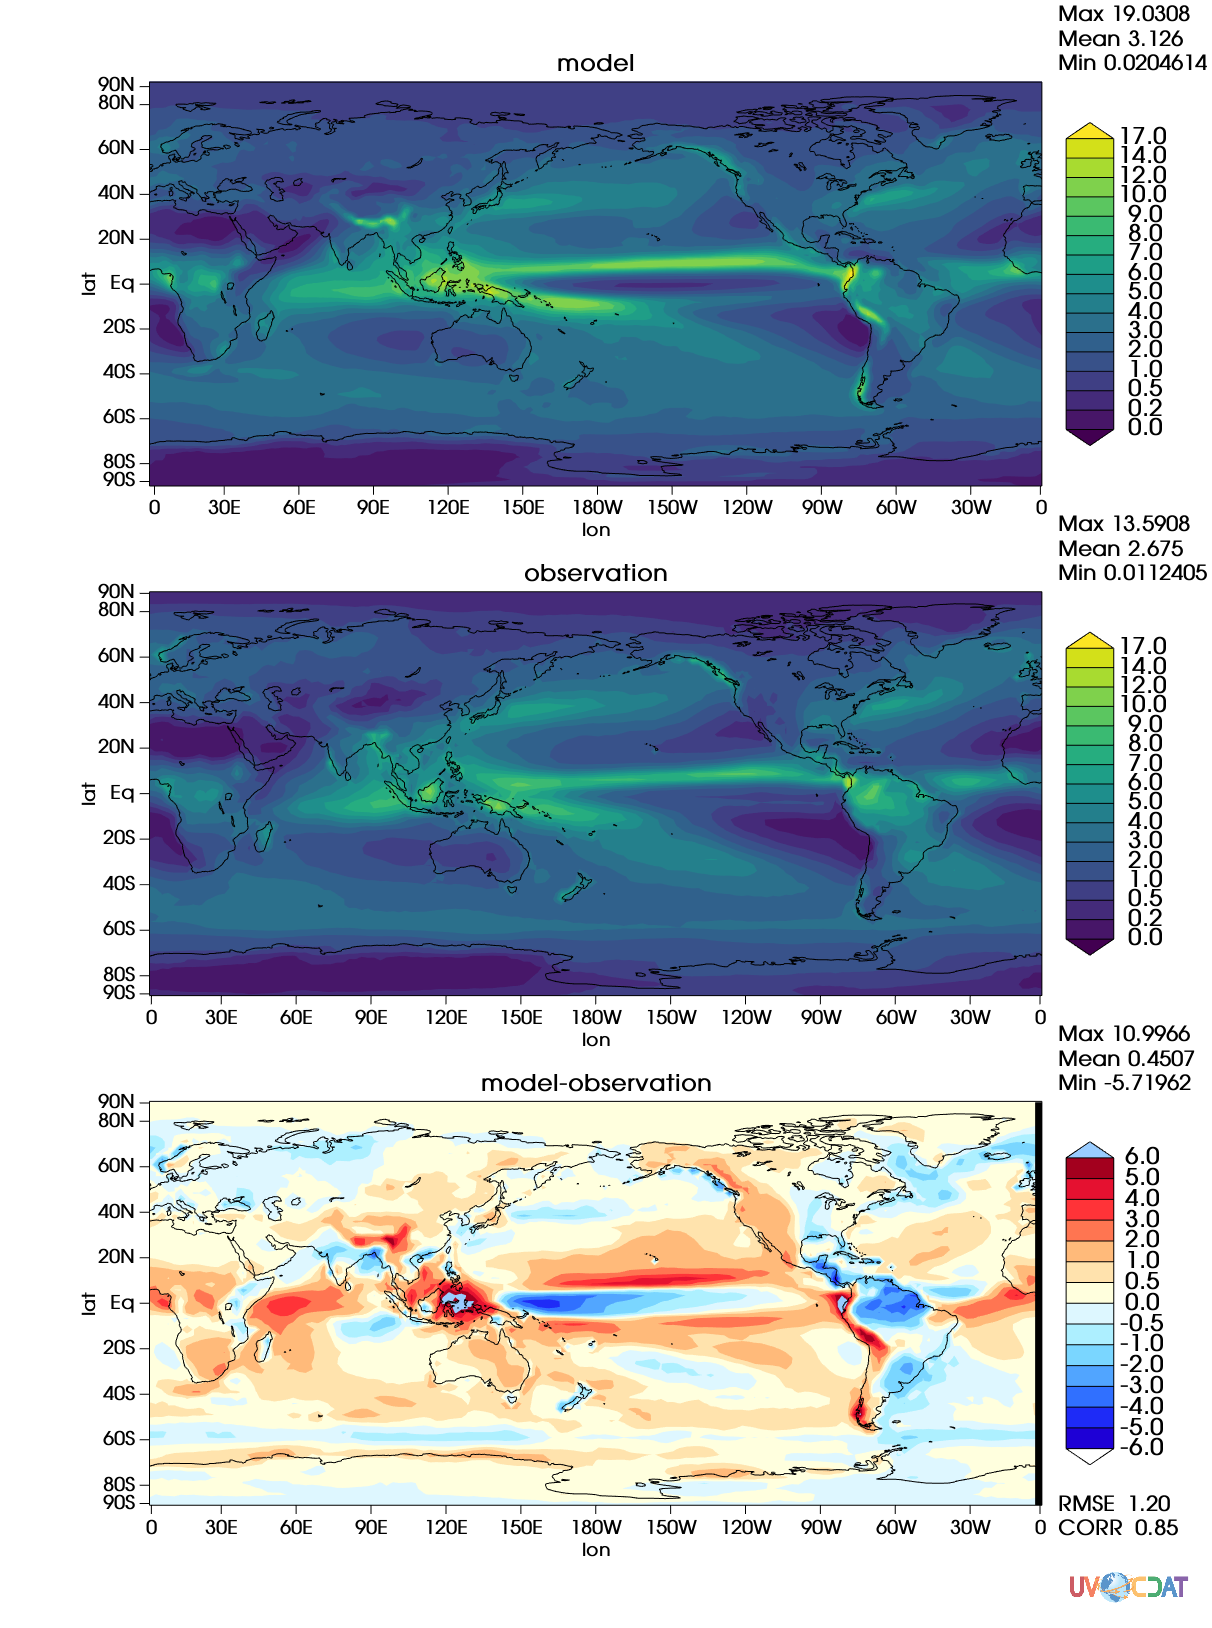
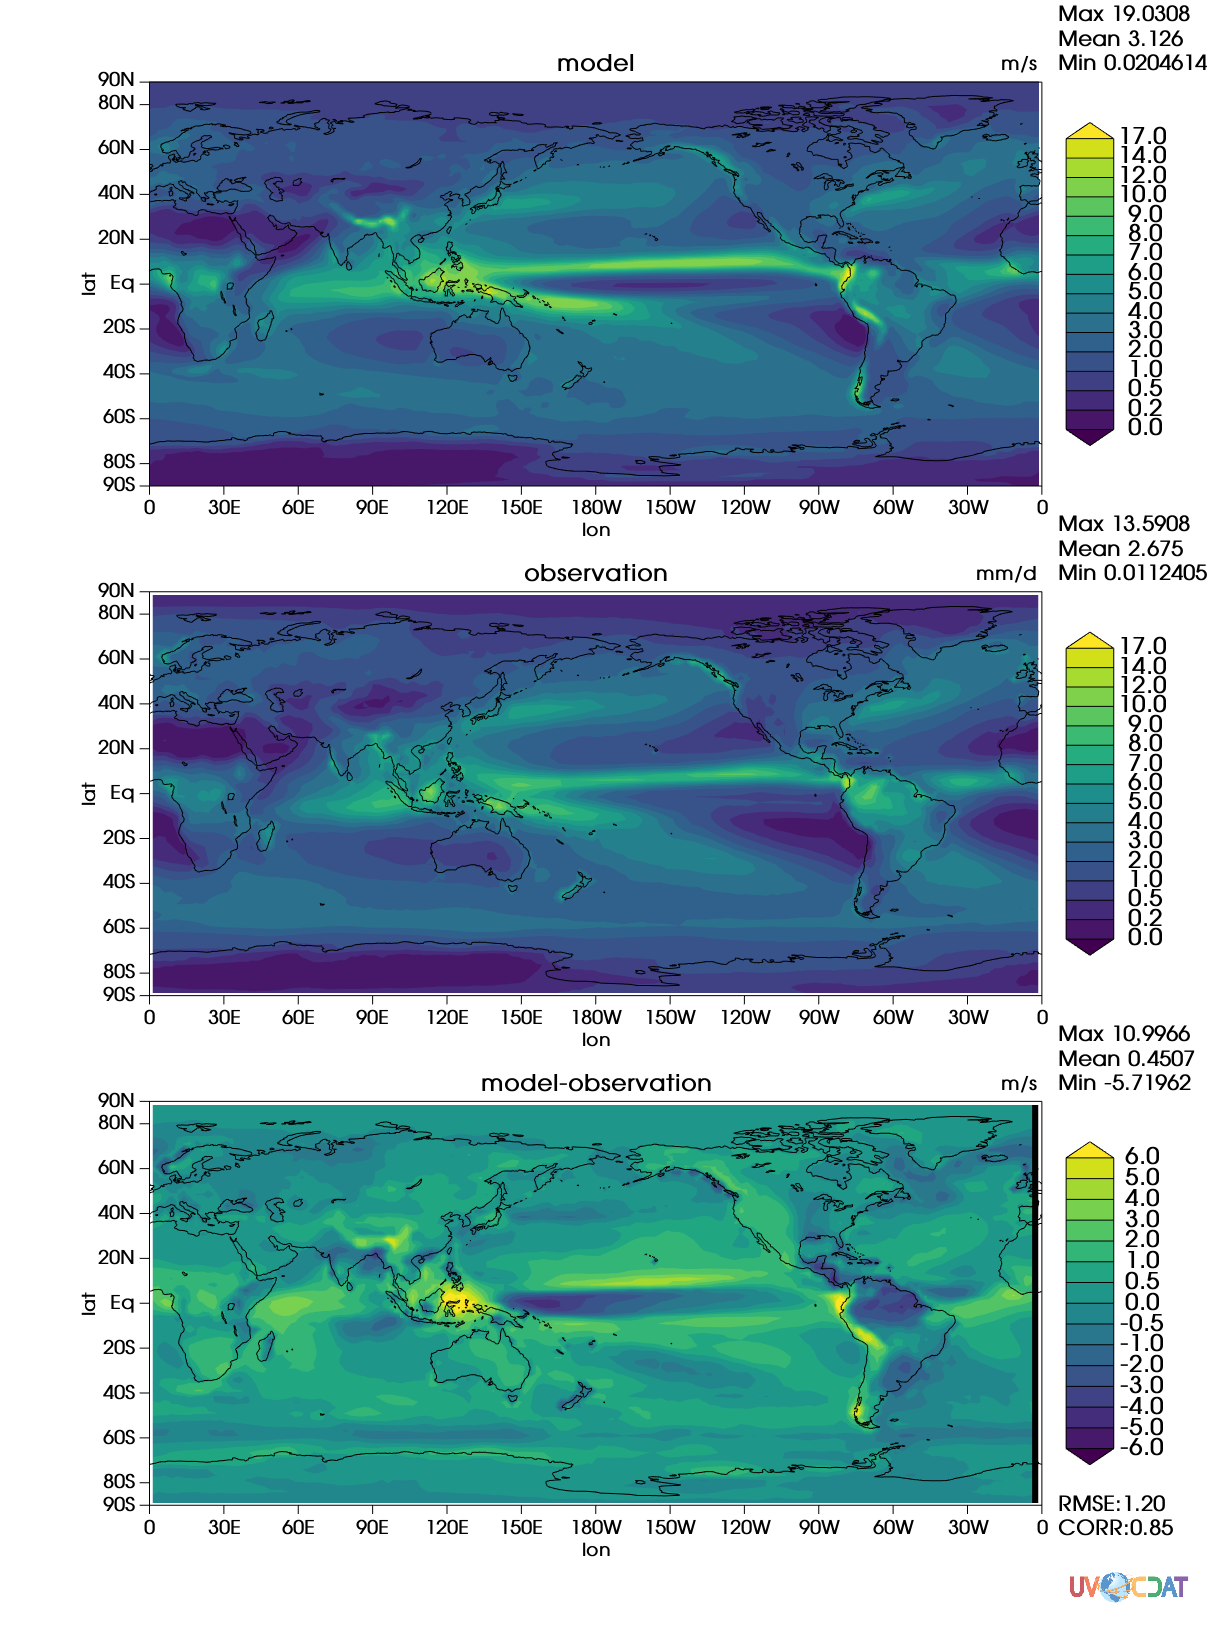
Updated plot set 5 script.

diff --git a/acme_diags/uvcmetric_test/plotset5/plotset5_uvcmetrics.py b/acme_diags/uvcmetric_test/plotset5/plotset5_uvcmetrics.py
@@ -25,24 +25,19 @@ def compute_corr(model, obs):
         print err
     return corr
 
-#reference_data_path='/space1/test_data/obs_for_diagnostics/'  # observation
-#test_data_path='/space/golaz1/ACME_simulations/20160520.A_WCYCL1850.ne30_oEC.edison.alpha6_01/pp/clim_rgr/0070-0099/'  # model
-reference_data_path='../'
-test_data_path='../'
+reference_data_path='./'
+test_data_path='./'
 
 #Read in data
-reference_data_set='GPCP_v2.2_ANN_climo.nc'  # observation
-#reference_data_set='GPCP_ANN_climo.nc'  # observation
-test_data_set='20160520.A_WCYCL1850.ne30_oEC.edison.alpha6_01_ANN_climo.nc'  # model
+reference_data_set='figure-set5_Global_ANN_T_plot--obs.nc'  # observation
+test_data_set='figure-set5_Global_ANN_T_plot--model.nc'  # model
 
 f_obs=cdms2.open(reference_data_path + reference_data_set)
 f_mod=cdms2.open(test_data_path + test_data_set)
 
-obs_pr=f_obs('PRECT')
-mod_pr=(f_mod('PRECC')+f_mod('PRECL'))*3600.0*24.0*1000.0
-print mod_pr.getLongitude()
-print mod_pr.getLatitude()
-#quit()
+obs_pr=f_obs('rv_T_ANN_NCEP')
+mod_pr=f_mod('rv_T_ANN_cam_output')
+
 
 #For plotting, original grid is plotted for model observation, differece plot is regridded to coaser grid. Need if statement to evaluate grid size. aminusb_2ax from uvcmetrics takes care of this,which also considers complex corner cases.
 axes1=mod_pr.getAxisList()
@@ -84,7 +79,8 @@ isofill.datawc_x1=0
 isofill.datawc_x2=360
 isofill.datawc_y1=-90
 isofill.datawc_y2=90
-isofill.levels=[0, 0.2, 0.5, 1, 2, 3, 4, 5, 6, 7, 8, 9, 10, 12, 14, 17]
+
+isofill.levels=[212, 216, 220, 224, 228, 232, 236, 240, 244, 248, 252, 256, 260, 264]#[x+4 for x in range(208, 264, 4)]
 # NOTE: because of the obs and model data files used,
 # there is no 360 degree value, so we use 358 as 0.
 # Same for 0 where we use 2 instead.
@@ -101,19 +97,18 @@ isofill.ext_2 = True
 
 x.plot(mod_pr, template_0, isofill)
 x.plot(obs_pr, template_1, isofill)
+isofill = x.createisofill()
+isofill.datawc_x1=0
+isofill.datawc_x2=360
+isofill.datawc_y1=-90
+isofill.datawc_y2=90
 
 # difference graph
-#isofill = x.createisofill()
-#isofill.datawc_x1=0
-#isofill.datawc_x2=360
-#isofill.datawc_y1=-90
-#isofill.datawc_y2=90
-
-isofill.levels=[-1e20, -6, -5, -4, -3, -2, -1, -0.5, 0, 0.5, 1, 2, 3, 4, 5, 6, 1e20]
+#isofill.levels=[-1e20, -6, -5, -4, -3, -2, -1, -0.5, 0, 0.5, 1, 2, 3, 4, 5, 6, 1e20]
 # After you set arrows, need to enable arrows again
 isofill.ext_1 = True
 isofill.ext_2 = True
-#isofill.colormap = x.getcolormap('bl_to_darkred')
+isofill.colormap = x.getcolormap('ltbl_to_drkbl')
 x.plot(dif_pr, template_2, isofill, comment1=rmse, comment2=corr)
 
 x.png('test.png')
